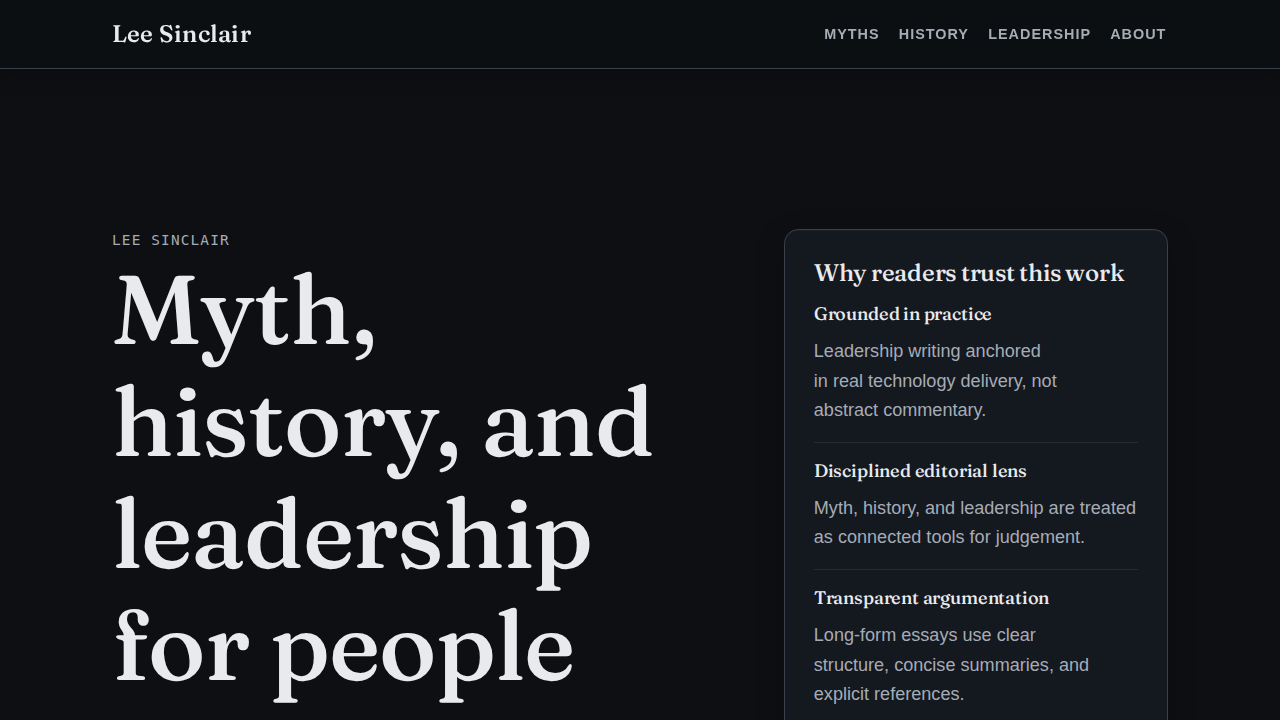
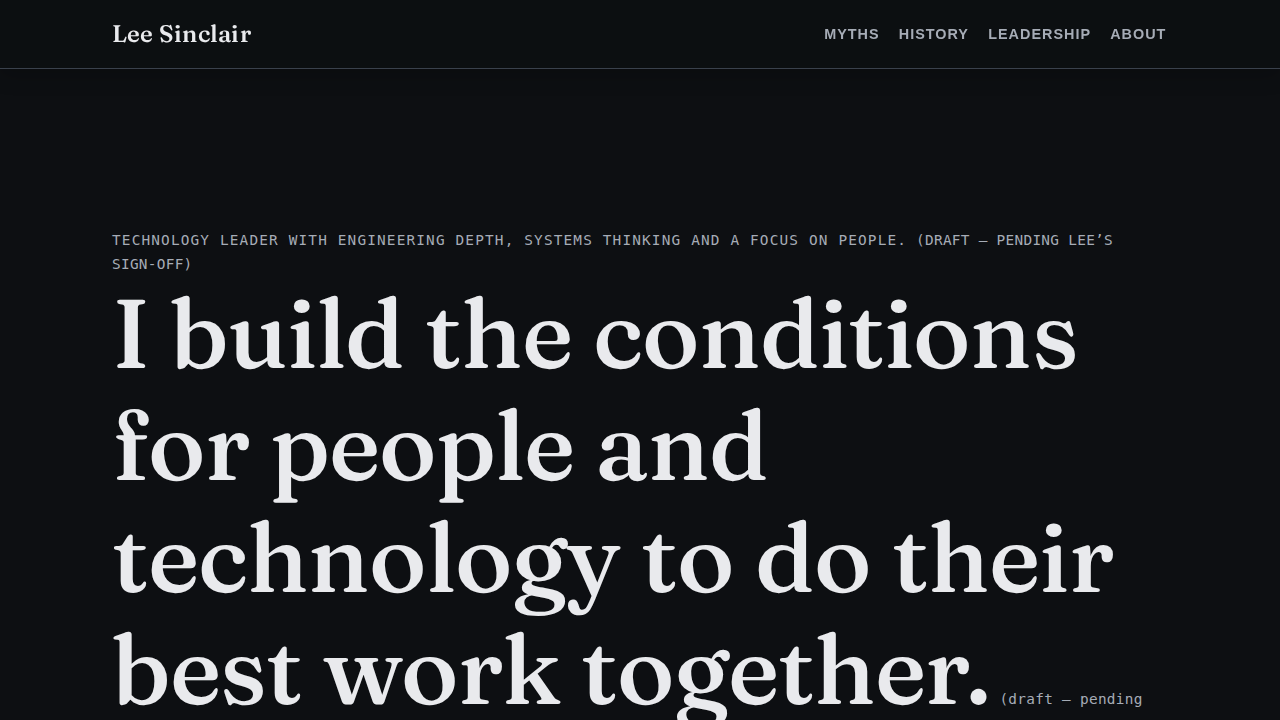
Refine hero content and trust section structure

Changed region(s): [[0.0938, 0.3056, 0.9062, 1.0], [0.5938, 0.3056, 0.875, 0.3667], [0.8438, 0.9472, 0.9062, 0.9778]]

diff --git a/src/data/editorial.ts b/src/data/editorial.ts
@@ -1,7 +1,6 @@
 import type {
   EditorialCard,
   EditorialSection,
-  HeroContent,
   LinkDefinition,
 } from "./types";
 
@@ -21,14 +20,6 @@ export const navigation = [
   { label: "Leadership", href: "/#leadership" },
   { label: "About", href: "/#about" },
 ] satisfies LinkDefinition[];
-
-export const homeHero = {
-  eyebrow: "Lee Sinclair",
-  title: "Myth, history, and leadership for people shaping institutions.",
-  intro:
-    "Essays that take old stories seriously, history read for judgement rather than nostalgia, and practical writing on leading technology teams — on power, memory, and what makes a team capable.",
-  primaryCta: { label: "Read Essays", href: "#pillars" },
-} satisfies HeroContent;
 
 export const homeTrustSection = {
   ariaLabel: "Why this writing is trustworthy",

diff --git a/src/data/types.ts b/src/data/types.ts
@@ -18,13 +18,6 @@ export interface LinkDefinition {
   label: string;
 }
 
-export interface HeroContent {
-  eyebrow: string;
-  title: string;
-  intro: string;
-  primaryCta: LinkDefinition;
-}
-
 export interface EditorialCard {
   id: string;
   title: string;
